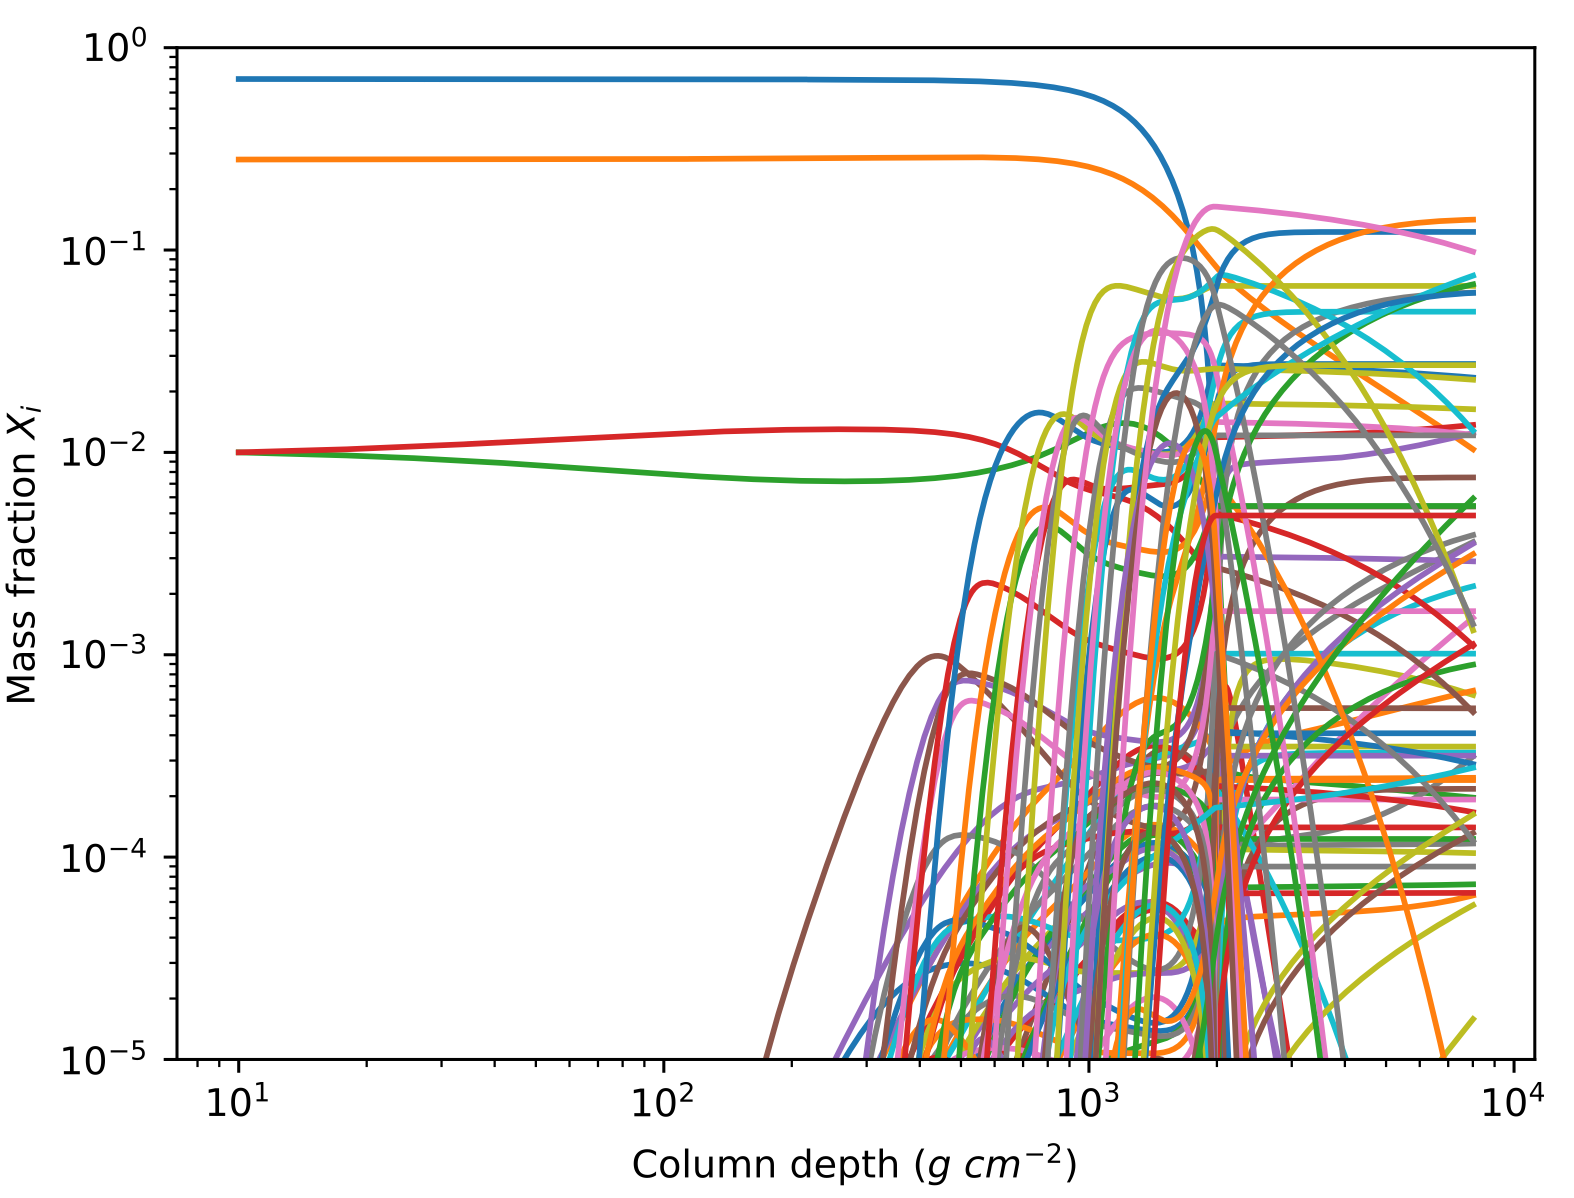
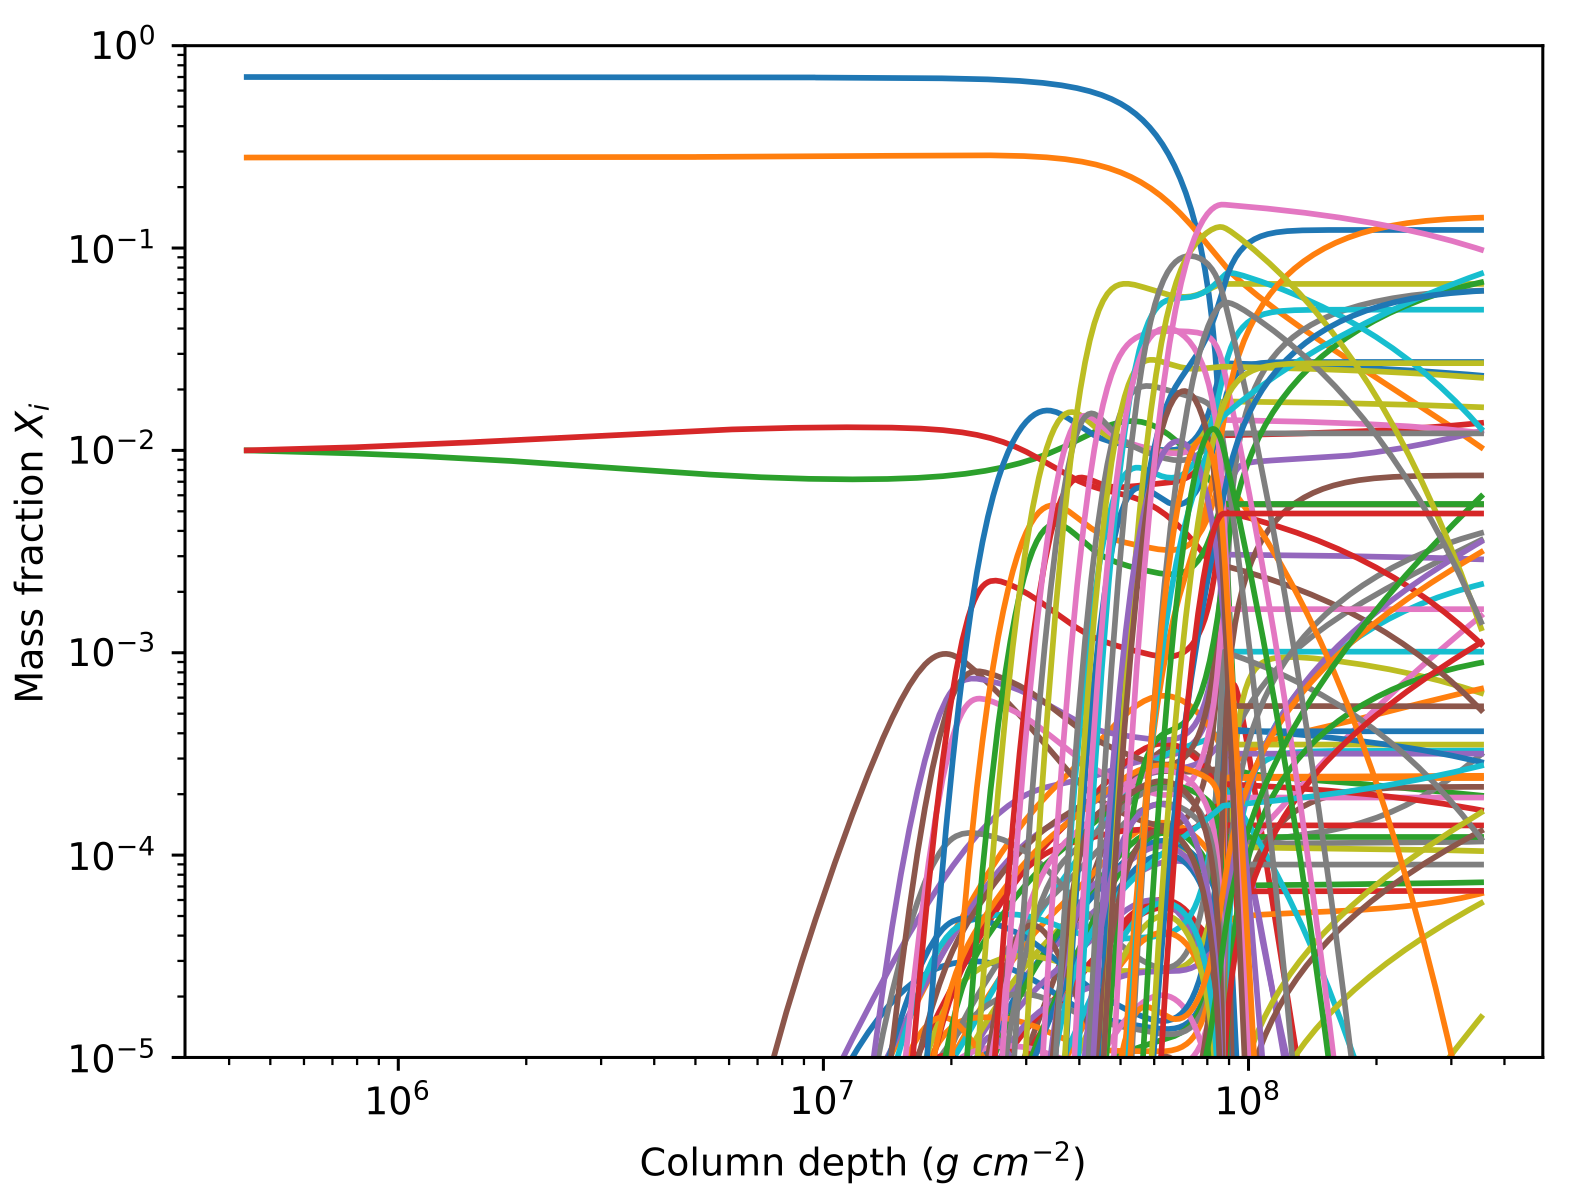
Updated README

Changed region(s): [[0.0, 0.0, 0.9962, 0.9312], [0.1557, 0.1242, 0.6849, 0.1552], [0.4047, 0.9622, 0.6849, 0.9933]]

diff --git a/steady.py b/steady.py
@@ -129,7 +129,7 @@ fig = plt.figure( )
 ax = fig.add_subplot(1,1,1)
 for i in range(len(species)):
 	if max(AA[i]*result[:,i]) > 1e-12:
-		plt.plot(t,AA[i]*result[:,i])#label=species[i])
+		plt.plot(mdot*t,AA[i]*result[:,i])#label=species[i])
 
 plt.xlabel(r'$\mathrm{Column\ depth}\ (g\ cm^{-2})$')
 plt.ylabel(r'$\mathrm{Mass\ fraction}\ X_i$')
